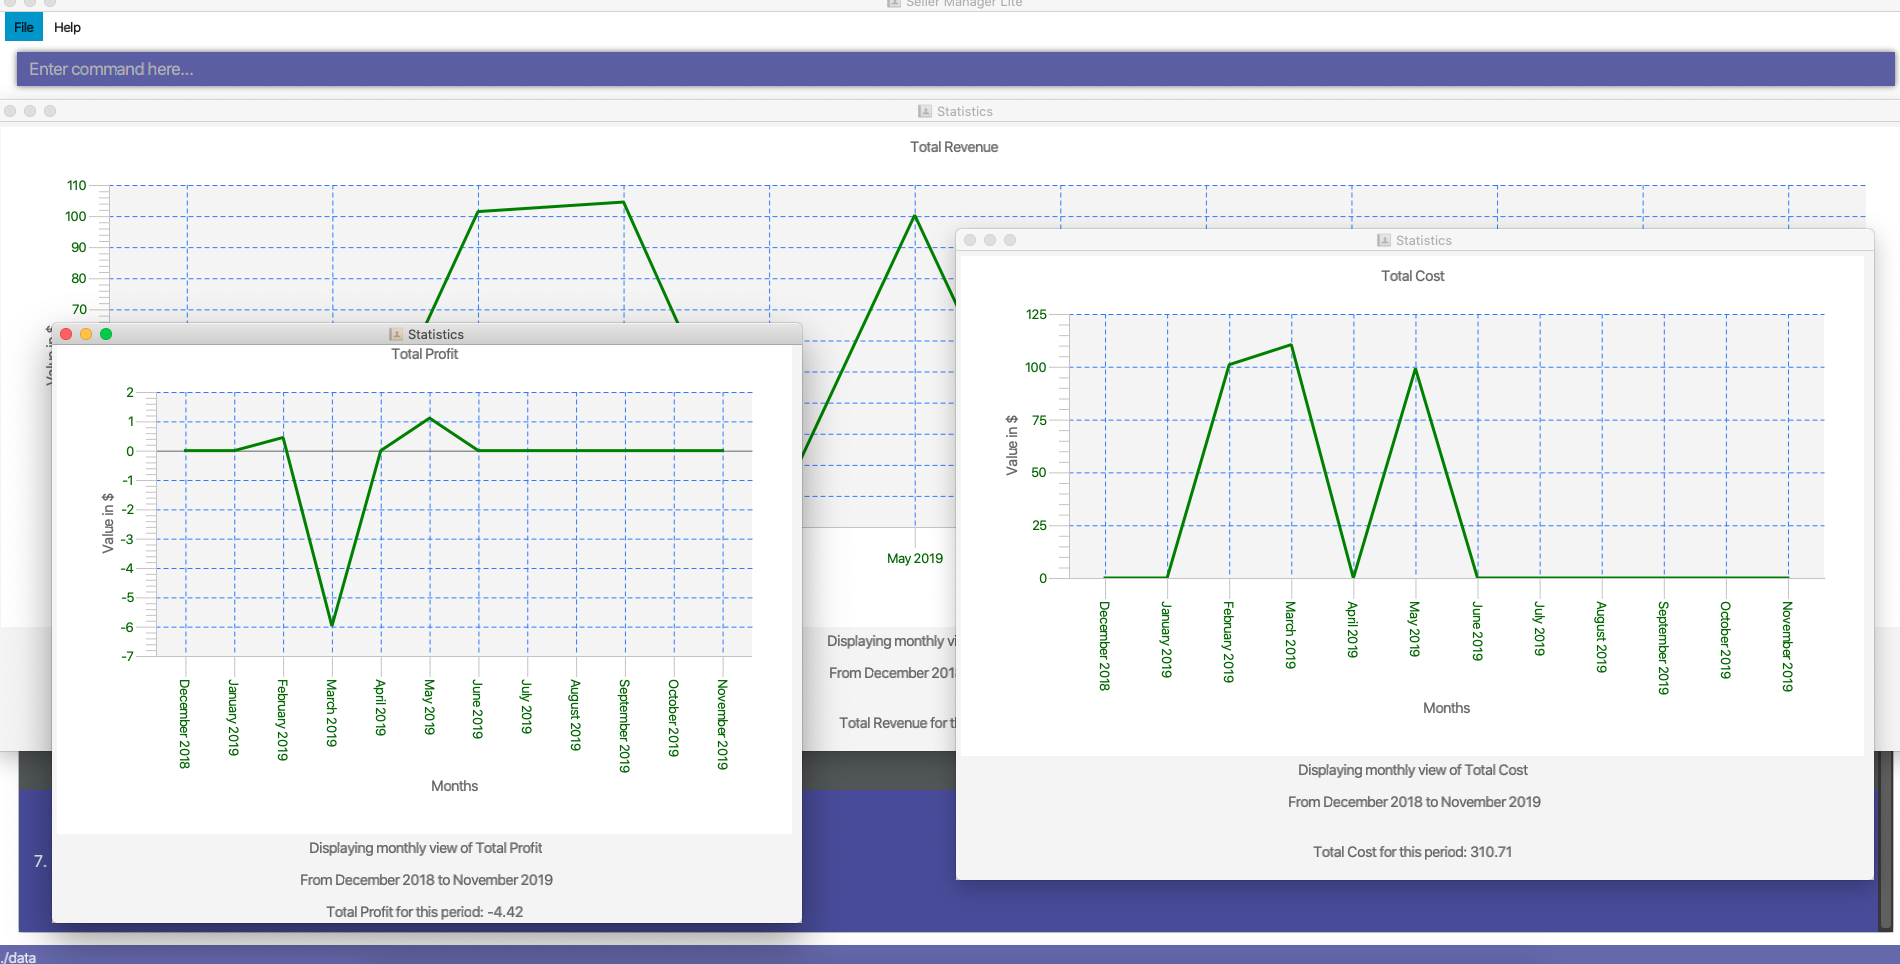
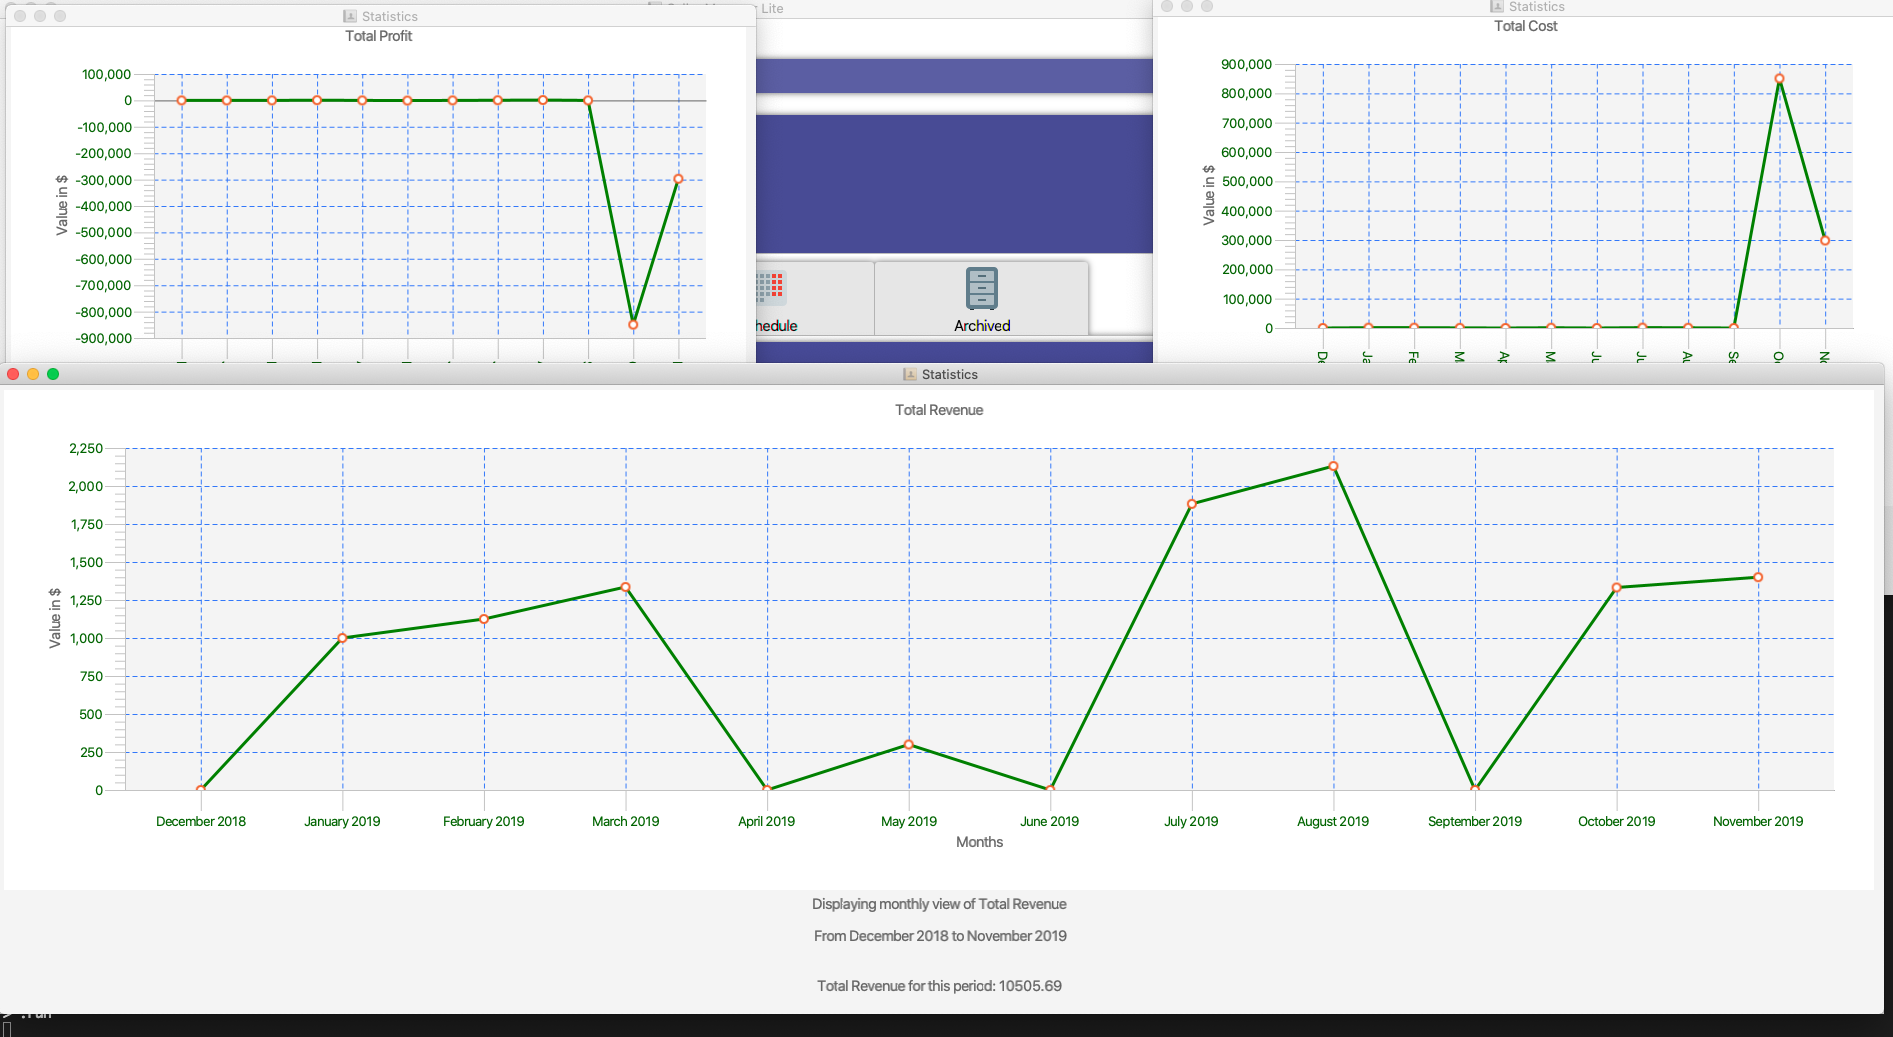
made chart symbol more visible

diff --git a/src/main/resources/view/SMLTheme.css b/src/main/resources/view/SMLTheme.css
@@ -24,6 +24,8 @@
     -fx-stroke: green;
 }
 
+
+
 .chart-vertical-grid-lines {
     -fx-stroke: #3278fa;
 }

diff --git a/src/main/java/seedu/address/ui/StatisticsWindow.java b/src/main/java/seedu/address/ui/StatisticsWindow.java
@@ -85,7 +85,7 @@ public class StatisticsWindow extends UiPart<Stage> {
         yAxis.setLabel("Value in $");
         this.testChart.getData().add(axisSeries);
         this.testChart.setLegendVisible(false);
-        this.testChart.setCreateSymbols(false);
+        this.testChart.setCreateSymbols(true);
     }
 
     /**
